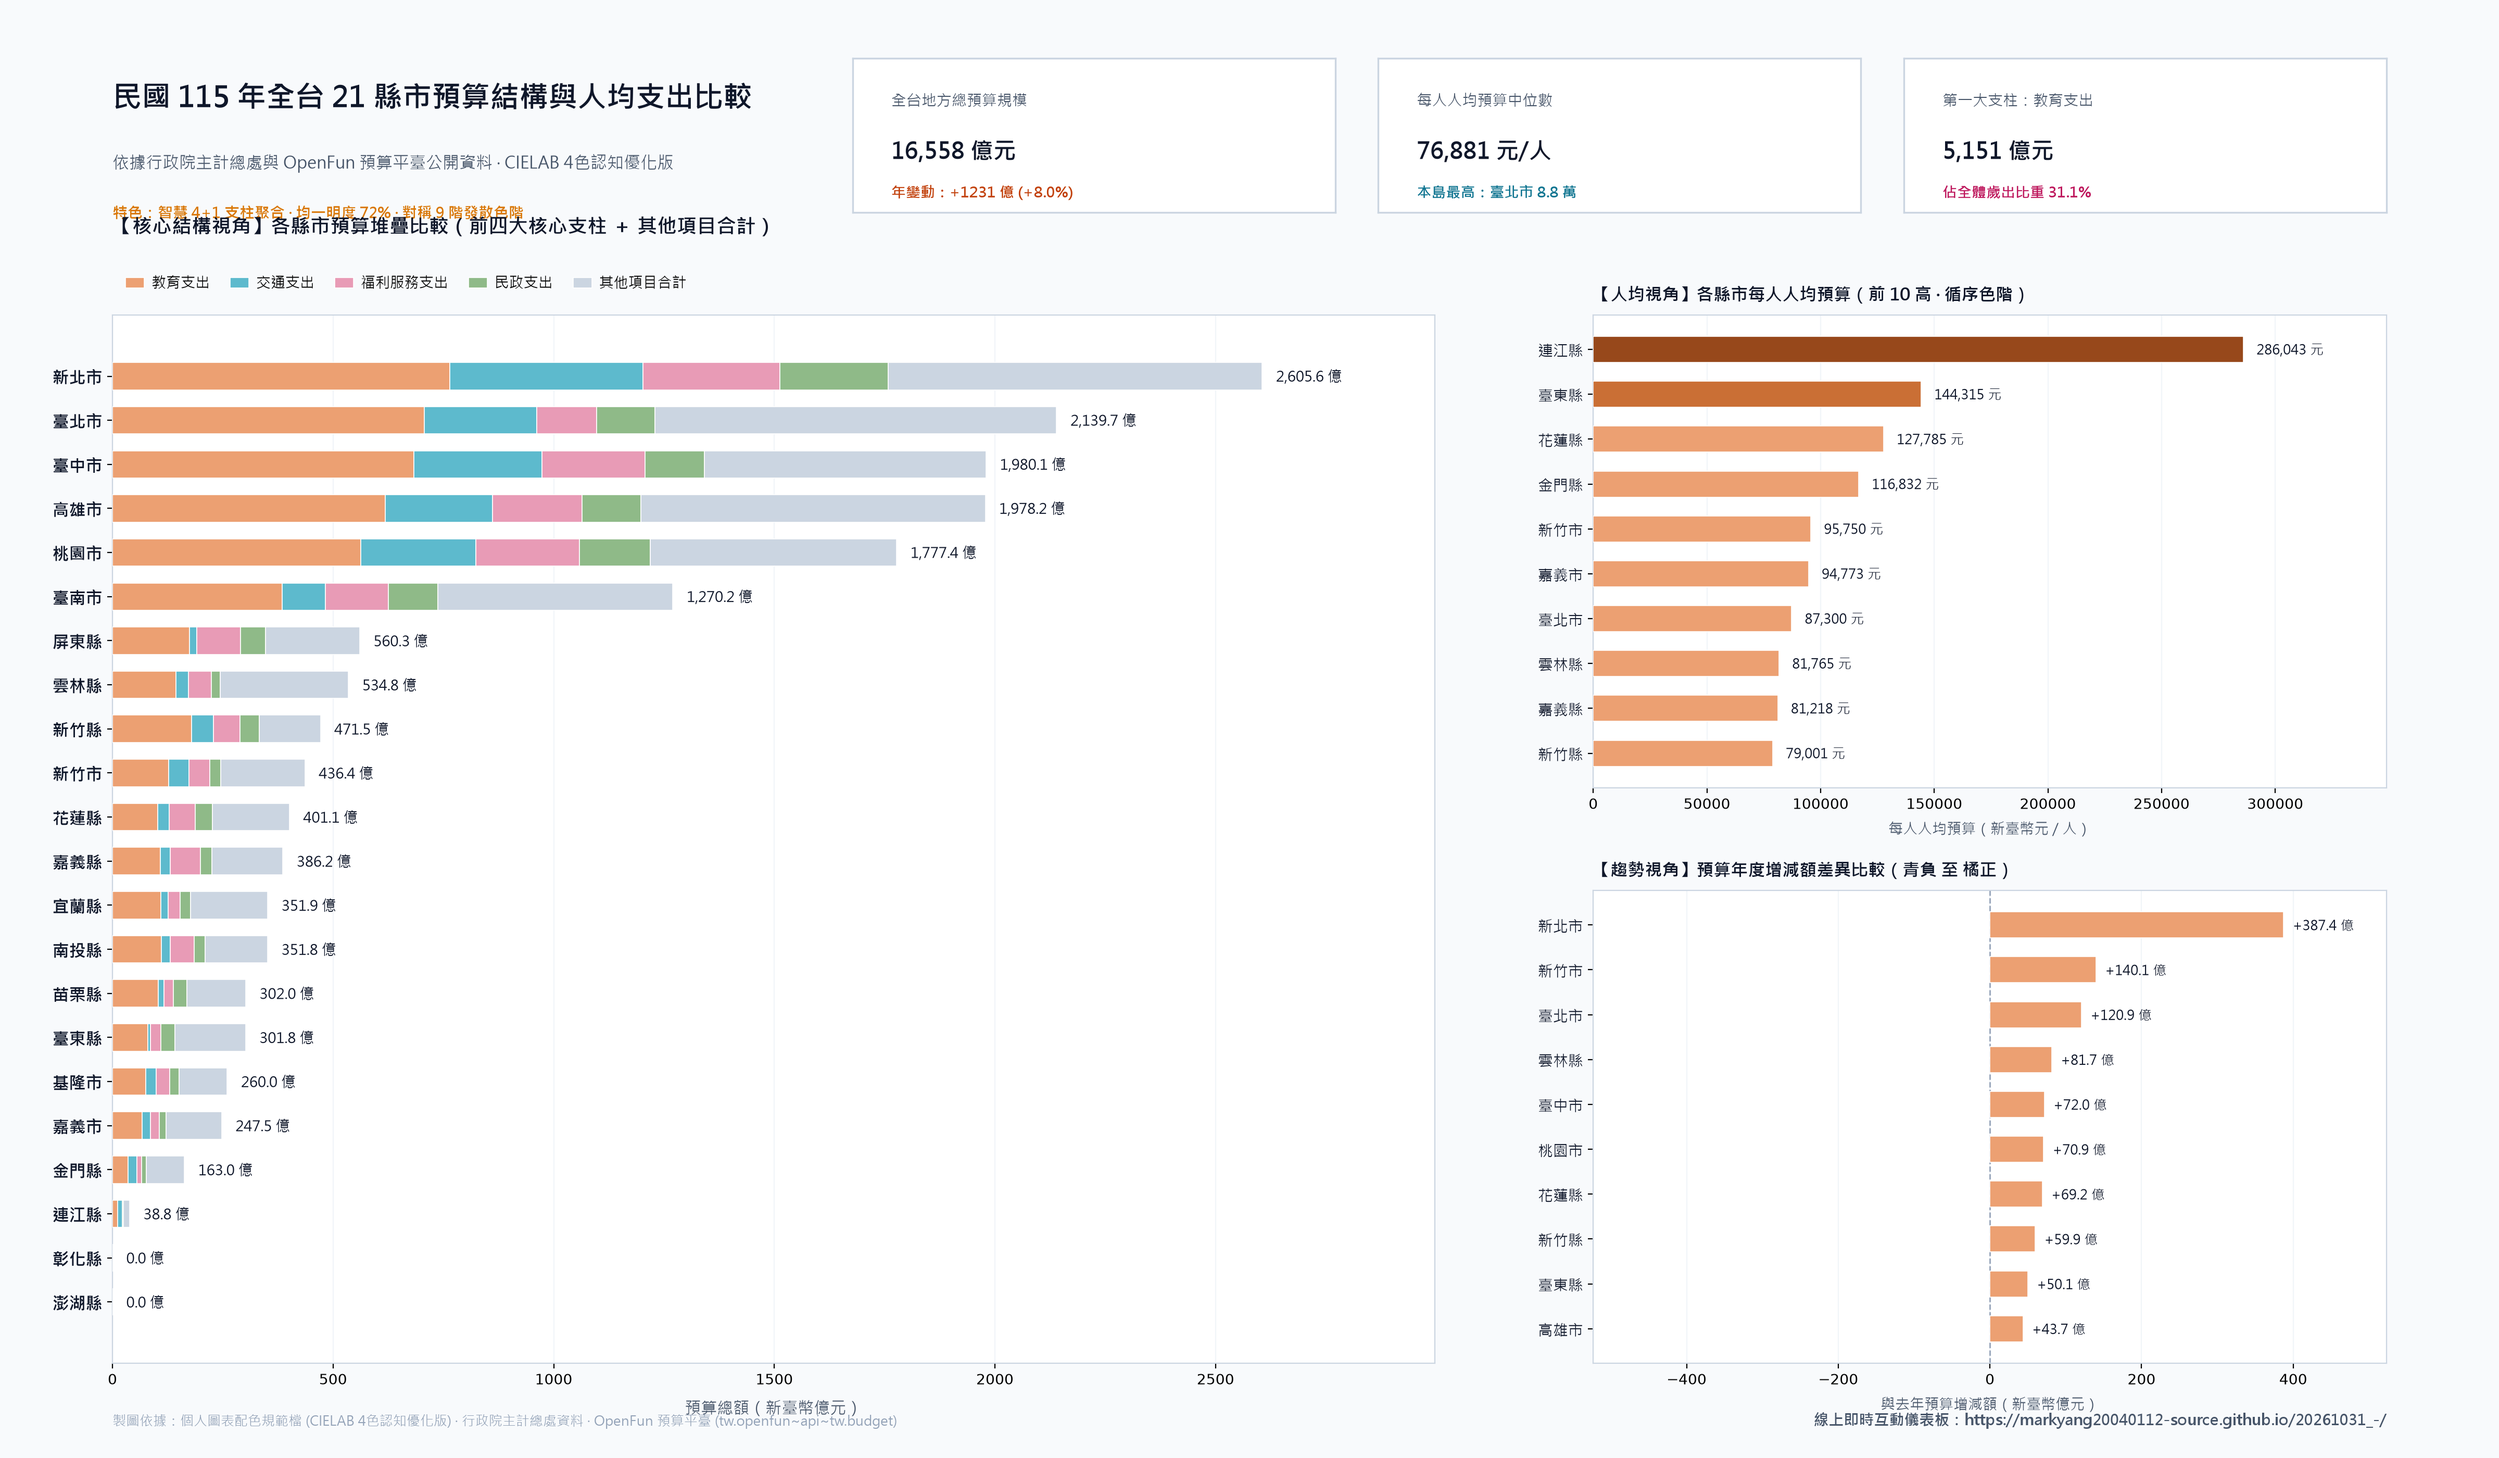
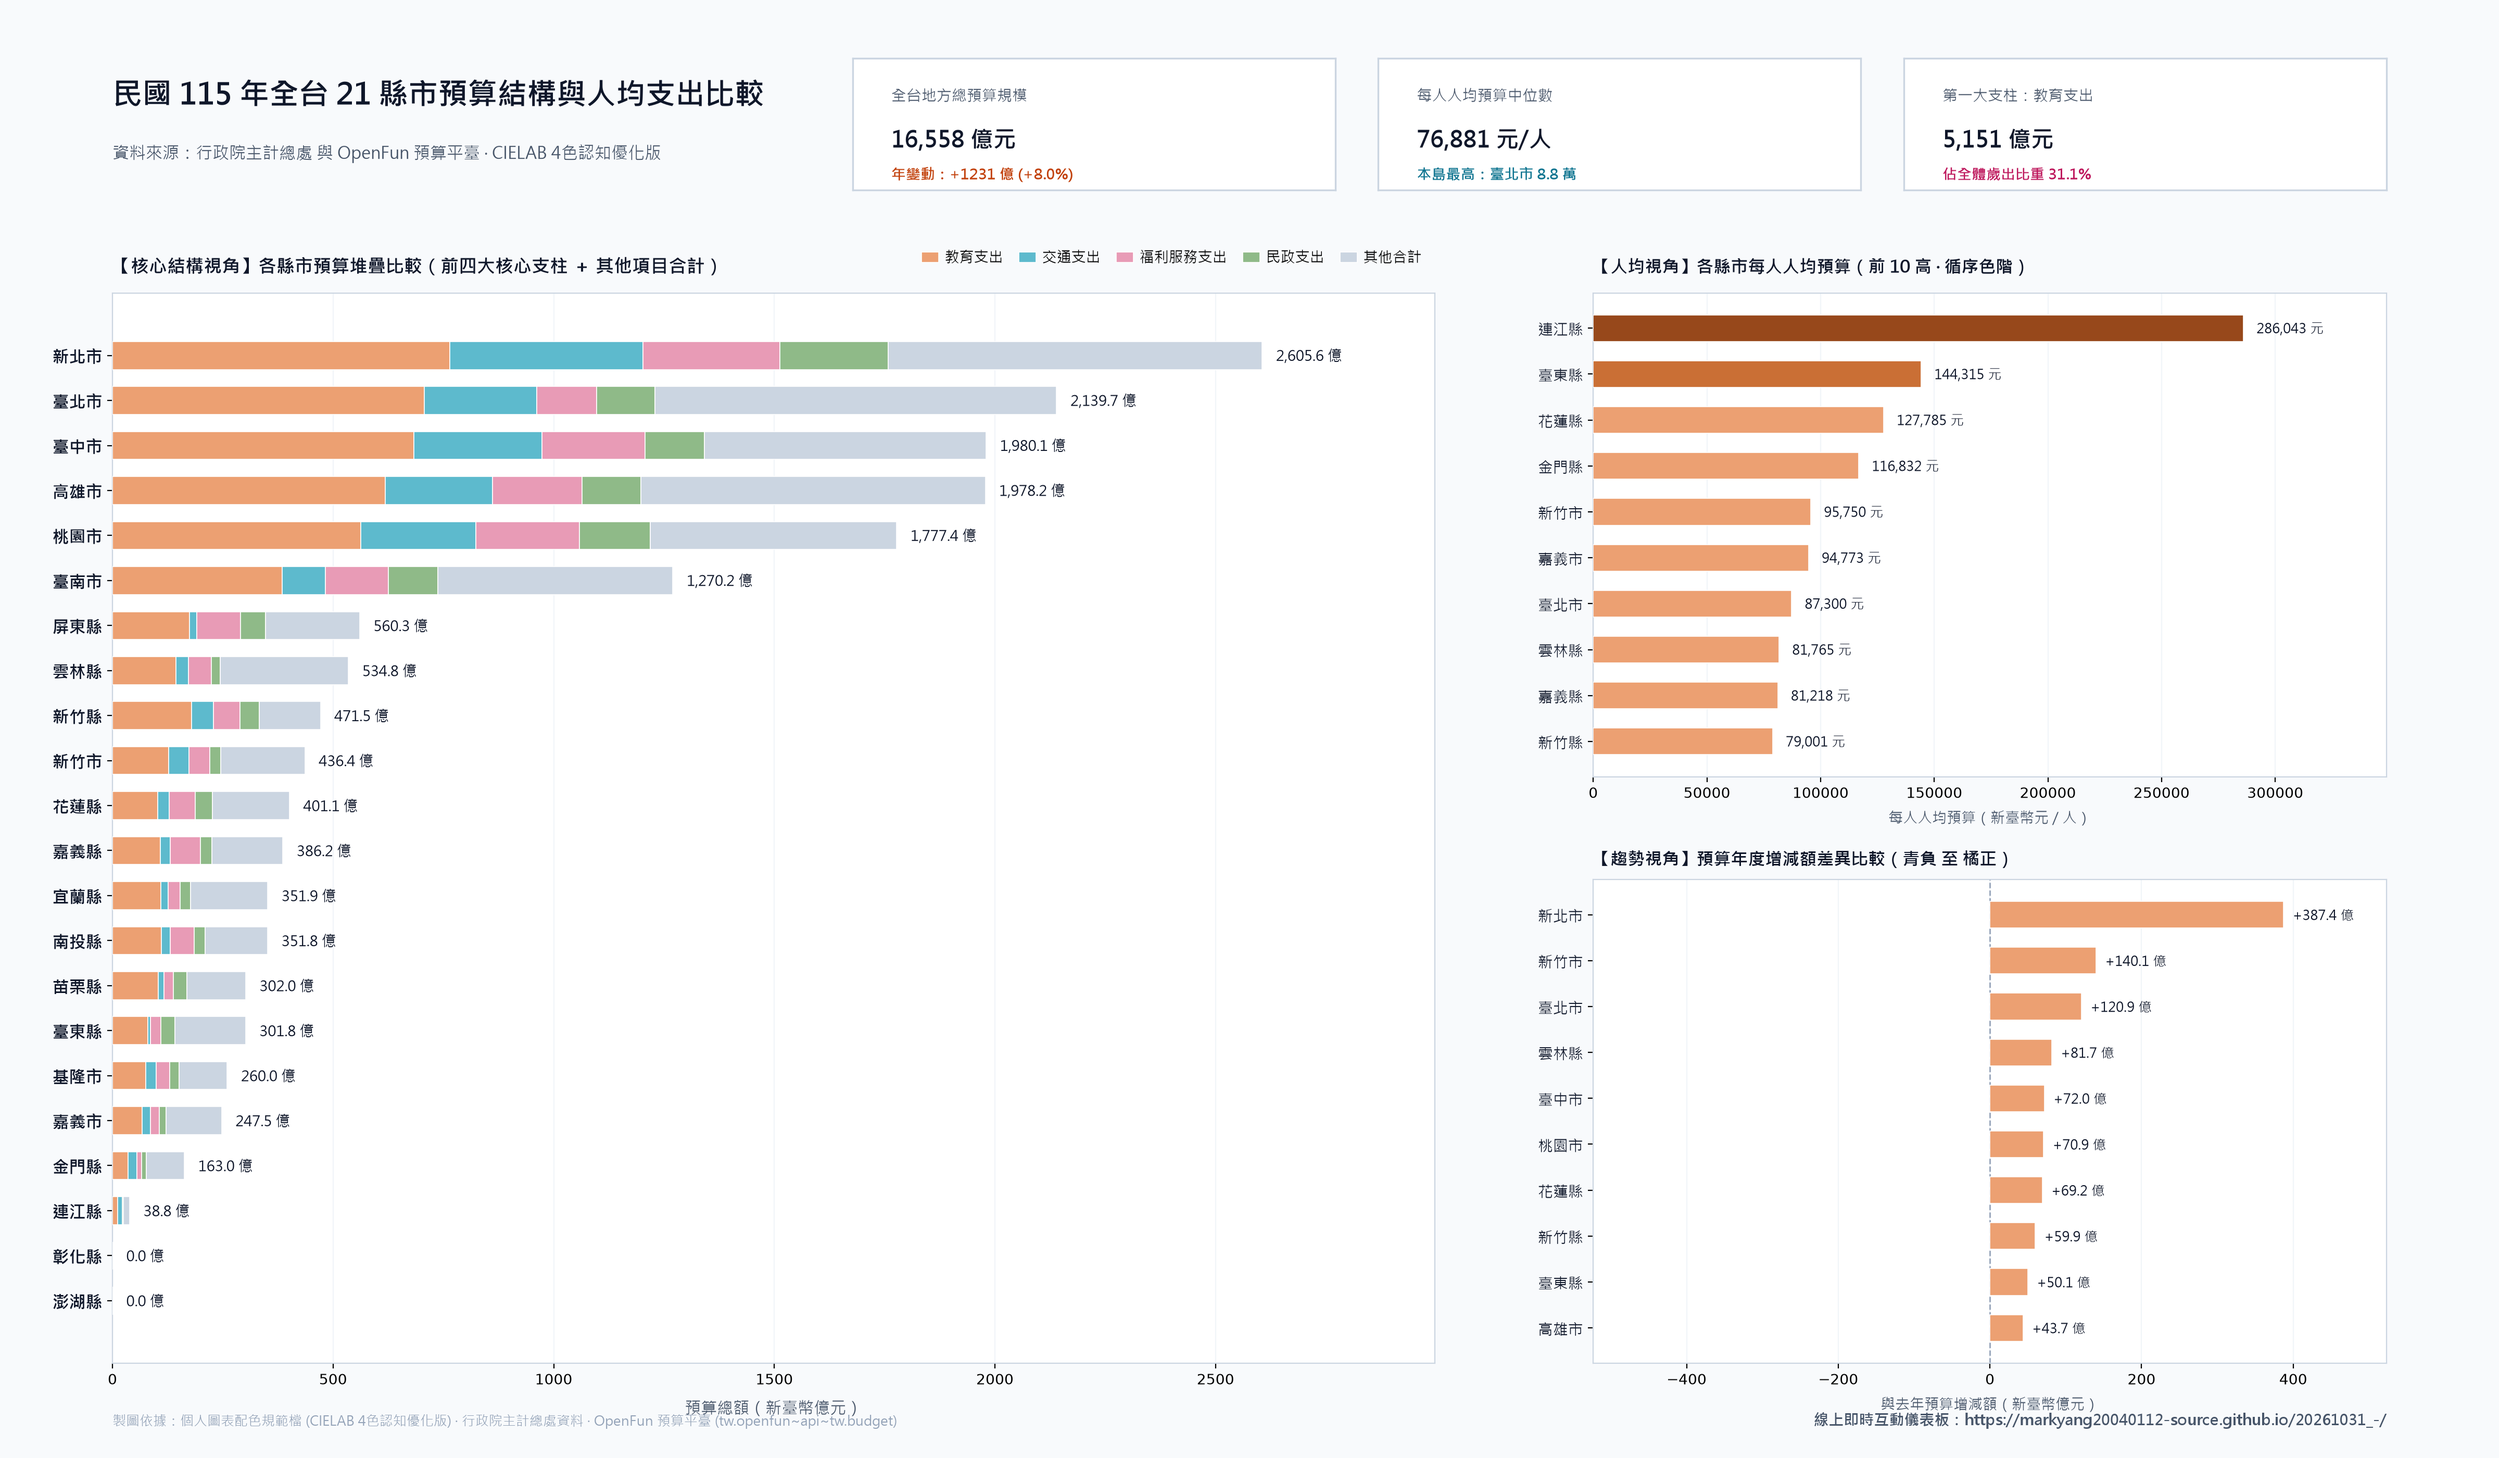
fix(chart): align title and legend horizontally and restore ample vertical breathing room

diff --git a/reading_sessions/20261031_全國預算比較儀表板/generate_chart.py b/reading_sessions/20261031_全國預算比較儀表板/generate_chart.py
@@ -82,26 +82,24 @@ fig = plt.figure(figsize=(24, 14), dpi=120)
 fig.patch.set_facecolor(COLORS["bg"])
 
 # 佈局規劃：
-# row 0: Header 資訊與 KPI 卡片 (高度 0.12)
+# row 0: Header 資訊與 3 個 KPI 卡片 (高度比例 0.12)
 # row 1 & 2: 主要視覺化區域 (左 4+1 堆疊，右上 人均榜，右下 年增減)
-# 底部留白放置來源與右下角網址
-gs = fig.add_gridspec(3, 2, width_ratios=[1.25, 0.75], height_ratios=[0.14, 0.43, 0.43],
+# hspace 設為 0.28，垂直間隔充裕乾淨
+gs = fig.add_gridspec(3, 2, width_ratios=[1.25, 0.75], height_ratios=[0.12, 0.44, 0.44],
                        left=0.045, right=0.955, top=0.96, bottom=0.065,
                        wspace=0.15, hspace=0.28)
 
 # 頂部 Header & KPI 卡片區域 (使用 GridSpec 內嵌 subplots，絕不位移或浮動)
 gs_top = gs[0, :].subgridspec(1, 4, width_ratios=[1.3, 0.9, 0.9, 0.9], wspace=0.08)
 
-# 1. 標題區 (ax_title)
+# 1. 主標題區 (ax_title) - 乾淨雙行排版，底部預留充裕空白
 ax_title = fig.add_subplot(gs_top[0, 0])
 ax_title.set_facecolor(COLORS["bg"])
 ax_title.axis('off')
 ax_title.text(0.0, 0.85, "民國 115 年全台 21 縣市預算結構與人均支出比較",
-              fontproperties=prop_bold, fontsize=20, color=COLORS["text_dark"], va="top")
-ax_title.text(0.0, 0.38, "依據行政院主計總處與 OpenFun 預算平臺公開資料 · CIELAB 4色認知優化版",
+              fontproperties=prop_bold, fontsize=20.5, color=COLORS["text_dark"], va="top")
+ax_title.text(0.0, 0.35, "資料來源：行政院主計總處 與 OpenFun 預算平臺 · CIELAB 4色認知優化版",
               fontproperties=prop, fontsize=11.5, color=COLORS["text_muted"], va="top")
-ax_title.text(0.0, 0.05, "特色：智慧 4+1 支柱聚合 · 均一明度 72% · 對稱 9 階發散色階",
-              fontproperties=prop_bold, fontsize=10.5, color="#D97706", va="top")
 
 # 2. KPI 卡片 1: 地方總預算規模
 ax_kpi1 = fig.add_subplot(gs_top[0, 1])
@@ -154,7 +152,7 @@ county_names = [x["county"] for x in county_stats]
 
 left_accum = np.zeros(len(county_stats))
 bar_height = 0.62
-labels = [top4_cats[0], top4_cats[1], top4_cats[2], top4_cats[3], "其他項目合計"]
+labels = [top4_cats[0], top4_cats[1], top4_cats[2], top4_cats[3], "其他合計"]
 cols = [COLORS["c1"], COLORS["c2"], COLORS["c3"], COLORS["c4"], COLORS["other"]]
 
 for cat_idx in range(4):
@@ -180,14 +178,12 @@ ax_main.set_yticklabels(county_names, fontproperties=prop_bold, fontsize=11.5, c
 ax_main.invert_yaxis()
 ax_main.set_xlabel("預算總額（新臺幣億元）", fontproperties=prop, fontsize=11, color=COLORS["text_muted"], labelpad=8)
 
-# 1. 標題置於最上方 (y=1.075)，層級分明
-ax_main.text(0.0, 1.075, "【核心結構視角】各縣市預算堆疊比較（前四大核心支柱 ＋ 其他項目合計）",
-             fontproperties=prop_bold, fontsize=13.5, color=COLORS["text_dark"],
-             transform=ax_main.transAxes, va='bottom', ha='left')
+# 標題與圖例並列於同一個頂部水平線：左側為標題，右側為圖例，垂直對齊完美！
+ax_main.set_title("【核心結構視角】各縣市預算堆疊比較（前四大核心支柱 ＋ 其他項目合計）",
+                  fontproperties=prop_bold, fontsize=12.5, color=COLORS["text_dark"], pad=14, loc='left')
 
-# 2. 圖例置於標題下方 (y=1.015)，與標題保持充足舒適的間距
-ax_main.legend(loc='lower left', bbox_to_anchor=(0.0, 1.012), ncol=5, frameon=False,
-               prop=prop, fontsize=10.5, handlelength=1.3, handletextpad=0.5, columnspacing=1.4)
+ax_main.legend(loc='lower right', bbox_to_anchor=(1.0, 1.015), ncol=5, frameon=False,
+               prop=prop, fontsize=10.5, handlelength=1.2, handletextpad=0.4, columnspacing=1.1)
 
 
 # ==========================================
@@ -226,7 +222,7 @@ ax_percap.set_yticklabels(p_names, fontproperties=prop, fontsize=10.5, color=COL
 ax_percap.invert_yaxis()
 ax_percap.set_xlabel("每人人均預算（新臺幣元 / 人）", fontproperties=prop, fontsize=10, color=COLORS["text_muted"], labelpad=6)
 ax_percap.set_title("【人均視角】各縣市每人人均預算（前 10 高 · 循序色階）",
-                    fontproperties=prop_bold, fontsize=12, color=COLORS["text_dark"], pad=10, loc='left')
+                    fontproperties=prop_bold, fontsize=12, color=COLORS["text_dark"], pad=14, loc='left')
 
 
 # ==========================================
@@ -279,7 +275,7 @@ website_url = "https://markyang20040112-source.github.io/20261031_-/"
 fig.text(0.955, 0.02, f"線上即時互動儀表板：{website_url}",
          fontproperties=prop_bold, fontsize=10.5, color="#475569", ha="right", va="bottom")
 
-# 輸出圖檔 (不使用破壞排版的 bbox_inches='tight'，直接完整渲染整個畫布)
+# 輸出圖檔
 out_png = "reading_sessions/20261031_全國預算比較儀表板/全台預算比較儀表板_視覺化圖表.png"
 plt.savefig(out_png, dpi=200, facecolor=fig.get_facecolor())
 print(f"Refined chart successfully saved to {out_png}")
